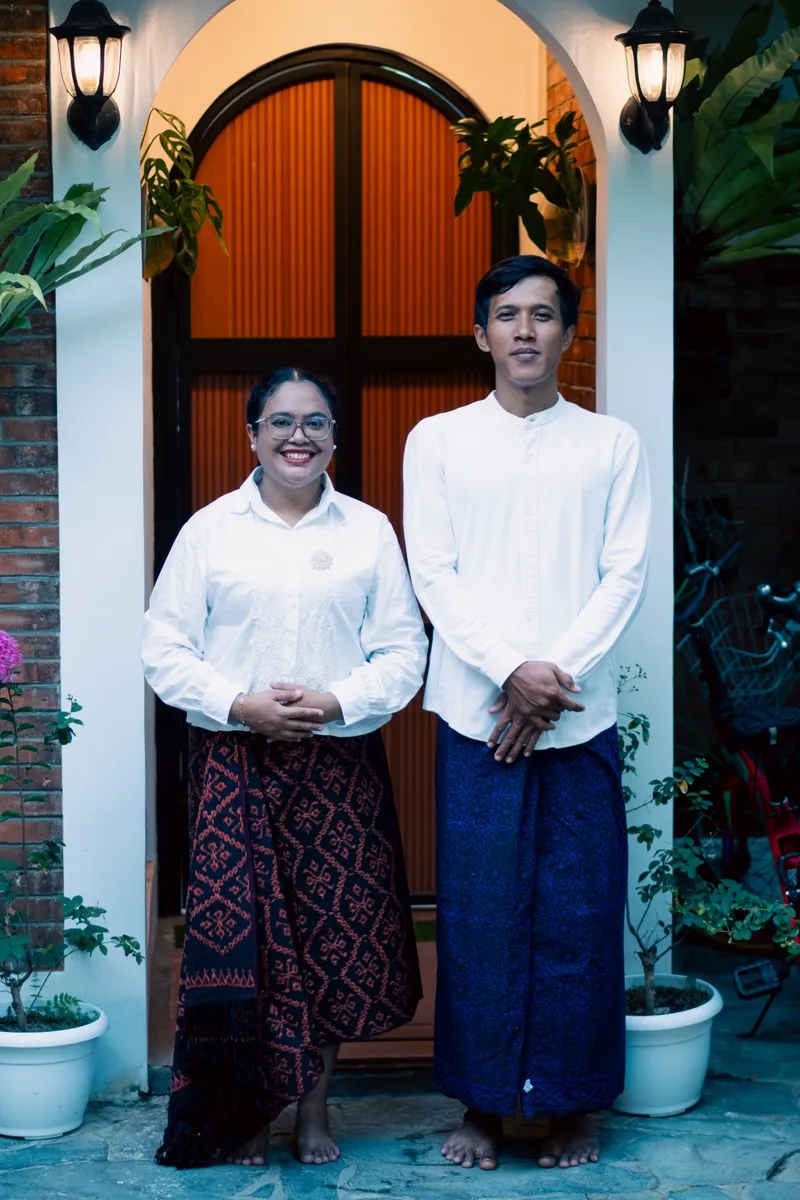
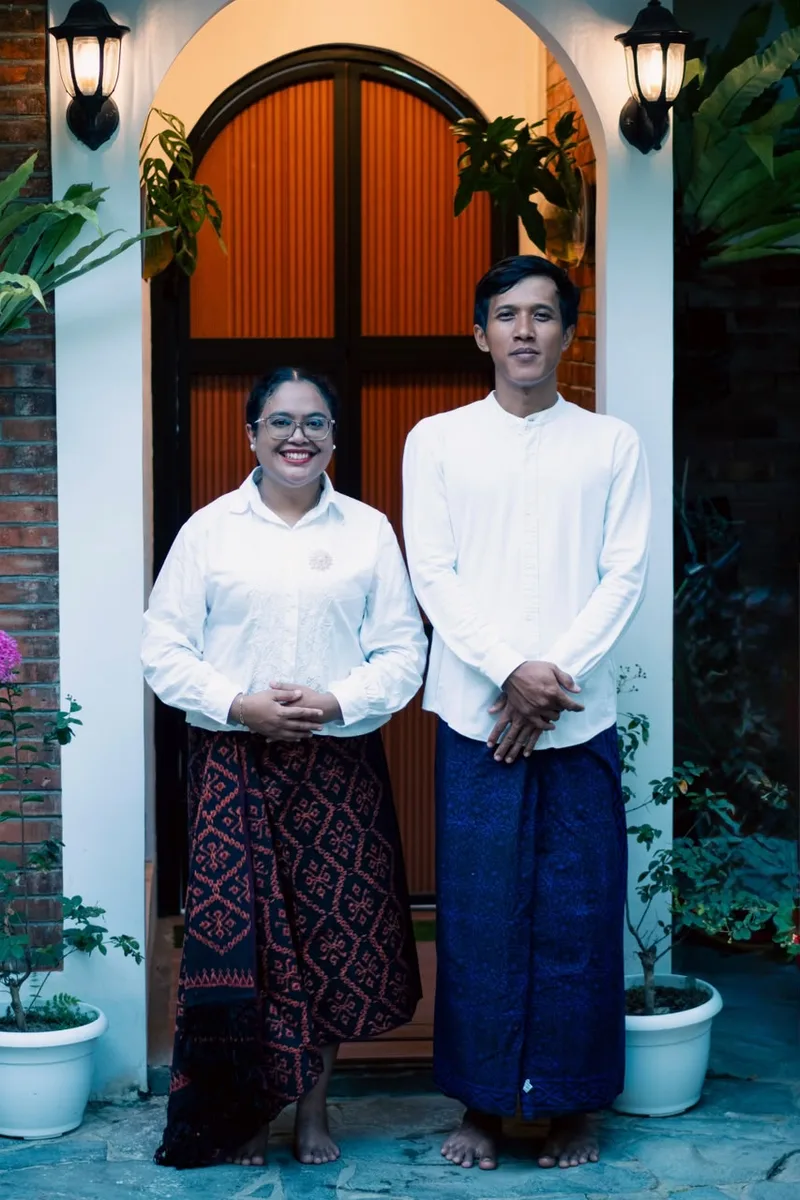
New closing photo and eggs photo; illustration in its own 5:4 frame so it never shows black bars

diff --git a/index.html b/index.html
@@ -351,9 +351,9 @@ nav.bottom a.active{background:rgba(240,220,180,.22)}
 .g-item.tall{grid-row:span 2}
 .g-item.wide{grid-column:span 2;grid-row:span 2}
 .g-item.feature{grid-column:span 2;grid-row:span 4}
-/* the drawn portrait is shown whole on white instead of cropped like the photos */
-.g-item.art{grid-column:span 2;grid-row:span 2}
-.g-item.art img{object-fit:contain;background:#fff}
+/* the drawn portrait sits under the grid in a frame of its own 5:4 shape, so it is never cropped
+   or letterboxed at any width */
+.g-item.art{display:block;width:100%;margin-top:10px;aspect-ratio:5/4}
 .g-item:first-child{border-radius:120px 120px 14px 14px}
 .g-item:first-child img{border-radius:116px 116px 10px 10px}
 .lightbox{position:fixed;inset:0;z-index:200;display:flex;align-items:center;justify-content:center;padding:60px 12px;background:rgba(30,20,14,.92);animation:lbIn .35s ease both}
@@ -589,8 +589,8 @@ nav.bottom svg{width:20px;height:20px}
       <button type="button" class="g-item tall" data-anim="left"><img src="img/gallery/g10.webp" alt="Agatha dan Muji menggendong ayam di Kandang Gadri" loading="lazy" decoding="async"></button>
       <button type="button" class="g-item tall" data-anim="right"><img src="img/gallery/g9.webp" alt="Agatha dan Muji di depan candi" loading="lazy" decoding="async"></button>
       <button type="button" class="g-item wide" data-anim="up"><img src="img/gallery/g12.webp" alt="Agatha dan Muji dengan sekeranjang telur di Kandang Gadri" loading="lazy" decoding="async"></button>
-      <button type="button" class="g-item art" data-anim="up"><img src="img/gallery/g13.webp" alt="Ilustrasi Muji dan Agatha bersama ayam Kandang Gadri" loading="lazy" decoding="async"></button>
     </div>
+    <button type="button" class="g-item art" data-anim="up"><img src="img/gallery/g13.webp" alt="Ilustrasi Muji dan Agatha bersama ayam Kandang Gadri" loading="lazy" decoding="async"></button>
   </section>
   <div class="ukir-band"></div>
 
